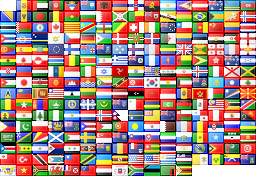
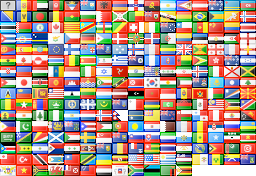
custom flag if !country, fixes

diff --git a/src/components/IpFlag/IpFlag.js b/src/components/IpFlag/IpFlag.js
@@ -1,16 +1,16 @@
 import React from 'react';
 import PropTypes from 'prop-types';
 import { I18n } from 'react-redux-i18n';
-import renderLabel from '../../utils/renderLabel';
-import { countries } from '../../config/countries';
+import countryList from 'country-list';
 import { UncontrolledTooltip } from '../Reactstrap/Uncontrolled';
 
 const IpFlag = ({ id, country, ip }) => {
-  const tooltipContent = [renderLabel(country, countries), ip].filter(i => i).join(' - ');
+  const countryName = countryList().getName(country);
+  const tooltipContent = [countryName, ip].filter(i => i).join(' - ');
 
   return (
     <span>
-      <i id={id} className={`fs-icon fs-${country.toLowerCase()}`} />
+      <i id={id} className={`fs-icon ${country ? `fs-${country.toLowerCase()}` : ''}`} />
       <UncontrolledTooltip
         placement="top"
         target={id}
@@ -20,9 +20,9 @@ const IpFlag = ({ id, country, ip }) => {
         }}
       >
         {
-          (!country && !ip)
-            ? I18n.t('COMMON.UNAVAILABLE')
-            : <span>{tooltipContent}</span>
+          ip
+            ? <span>{tooltipContent}</span>
+            : I18n.t('COMMON.UNAVAILABLE')
         }
       </UncontrolledTooltip>
     </span>

diff --git a/public/css/source/flags/flags.css b/public/css/source/flags/flags.css
@@ -5,10 +5,10 @@
 }
 
 .fs-icon {
-    display: inline-block;
-    width: 16px;
-    height: 11px;
-    background: url(flags.png) no-repeat
+  display: inline-block;
+  width: 16px;
+  height: 11px;
+  background: url(flags.png) no-repeat 0 0;
 }
 
 .fs-placeholder,
